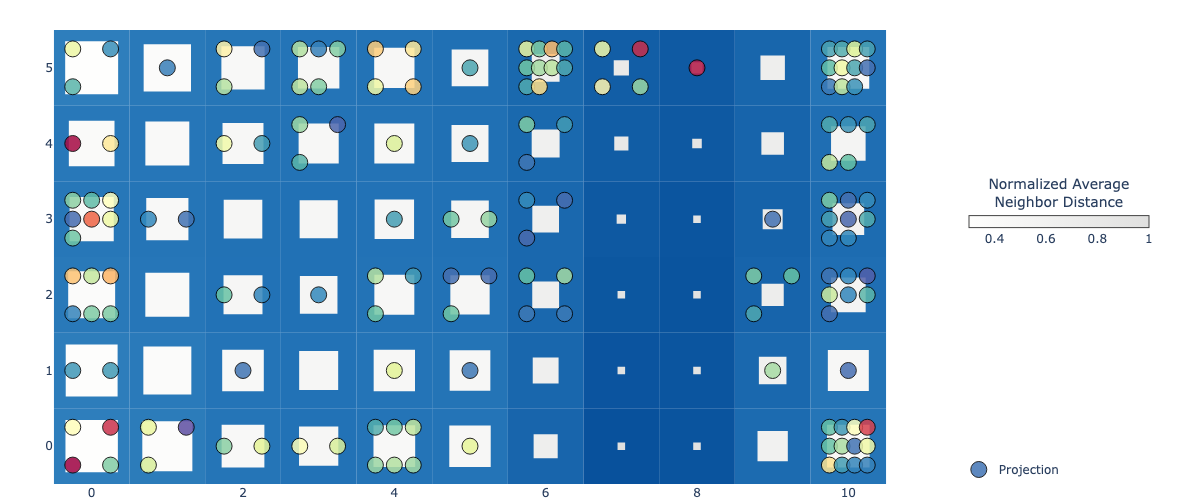
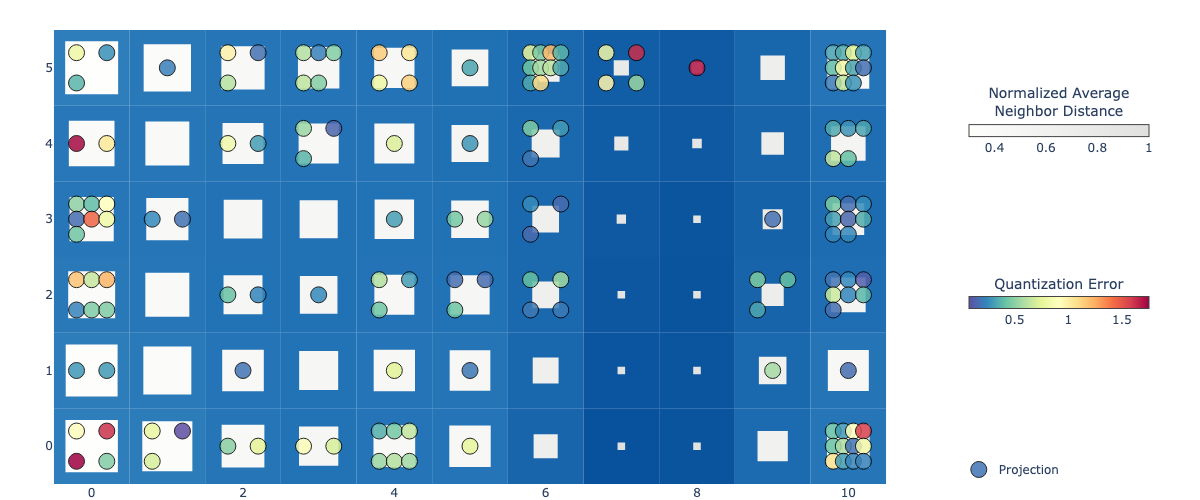
Update README

diff --git a/README.md b/README.md
@@ -138,17 +138,16 @@ basin.pond(base_style="iceflock") \
 ![](README_files/figure-commonmark/cell-12-output-1.png)
 
 ``` python
-# use the quantization error measured from best-matching unit as the color of the projected sample
+# use the quantization error (distance from representation) measured from best-matching unit
+#   as the color of the projected sample
 
-import numpy as np
-X_quantization_errors = np.linalg.norm(basin.som_representation.som.quantization(X_scaled) - X_scaled, axis=1)
-custom_marker = dict(opacity=.85, size=16, color=X_quantization_errors, colorscale="Spectral_r", line=dict(width=1, color="black"))
+custom_marker = dict(opacity=.85, size=16)
 
 basin.pond(base_style="iceflock") \
     .pad_layer() \
     .attraction_layer(
         X_scaled,
-        jitter_amount=.25,
+        color_by_quantization_error=True,
         marker=custom_marker
     ) \
     .visualize(width=1200);
